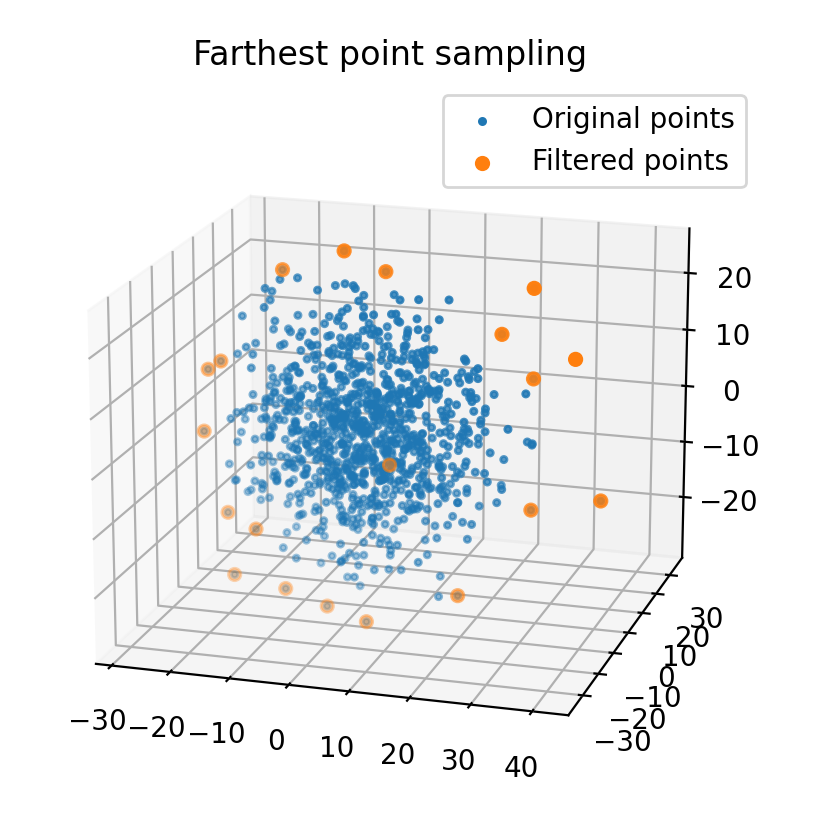
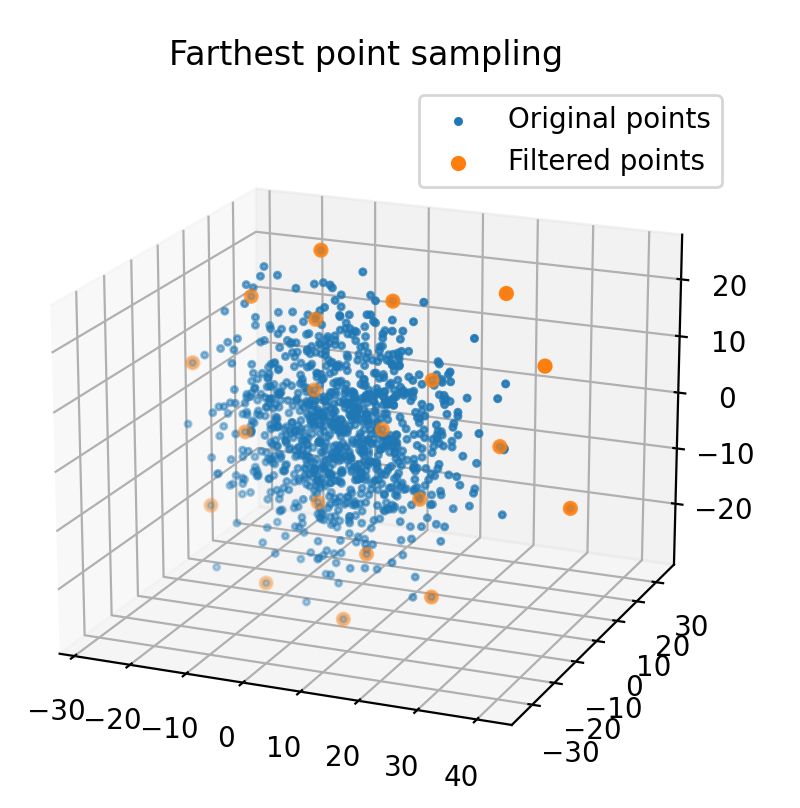
add docs

Changed region(s): [[0.0625, 0.2475, 0.9375, 0.9901], [0.2188, 0.0309, 0.9062, 0.2475]]

diff --git a/Mapping/point_cloud_sampling/point_cloud_sampling.py b/Mapping/point_cloud_sampling/point_cloud_sampling.py
@@ -55,28 +55,18 @@ def farthest_point_sampling(orig_points: npt.NDArray,
     -------
     sampled points (n_points, N)
 
-    Notes
-    ------
-    Farthest Point Sampling is a point cloud sampling method by a specified
-    number of points so that the distance between points is as far apart as
-    possible.
-
-    This method is useful for machine learning and other situations where
-    you want to obtain a specified number of points.
-
-    Notes
-    ------
-
-
     """
     rng = np.random.default_rng(seed)
-    first_point_id = rng.choice(range(orig_points.shape[0]))
+    n_orig_points = orig_points.shape[0]
+    first_point_id = rng.choice(range(n_orig_points))
+    min_distances = np.ones(n_orig_points) * float("inf")
     selected_ids = [first_point_id]
     while len(selected_ids) < n_points:
         base_point = orig_points[selected_ids[-1], :]
         distances = np.linalg.norm(orig_points[np.newaxis, :] - base_point,
                                    axis=2).flatten()
-        distances_rank = np.argsort(-distances)  # Farthest order
+        min_distances = np.minimum(min_distances, distances)
+        distances_rank = np.argsort(-min_distances)  # Farthest order
         for i in distances_rank:  # From the farthest point
             if i not in selected_ids:  # if not selected yes, select it
                 selected_ids.append(i)

diff --git a/docs/modules/mapping/point_cloud_sampling/point_cloud_sampling_main.rst b/docs/modules/mapping/point_cloud_sampling/point_cloud_sampling_main.rst
@@ -35,19 +35,28 @@ API
 
 Farthest Point Sampling
 ~~~~~~~~~~~~~~~~~~~~~~~~~
+.. figure:: farthest_point_sampling.png
+
+Farthest Point Sampling is a point cloud sampling method by a specified
+number of points so that the distance between points is as far apart as
+possible.
+
+This method is useful for machine learning and other situations where
+you want to obtain a specified number of points.
 
 API
 =====
 
 .. autofunction:: Mapping.point_cloud_sampling.point_cloud_sampling.farthest_point_sampling
 
-.. figure:: farthest_point_sampling.png
-
-
 Poisson Disk Sampling
 ~~~~~~~~~~~~~~~~~~~~~~~~~
-
 .. figure:: poisson_disk_sampling.png
+
+Poisson disk sample is a point cloud sampling method by a specified
+number of points so that the algorithm selects points where the distance
+from selected points is greater than a certain distance.
+
 
 API
 =====
